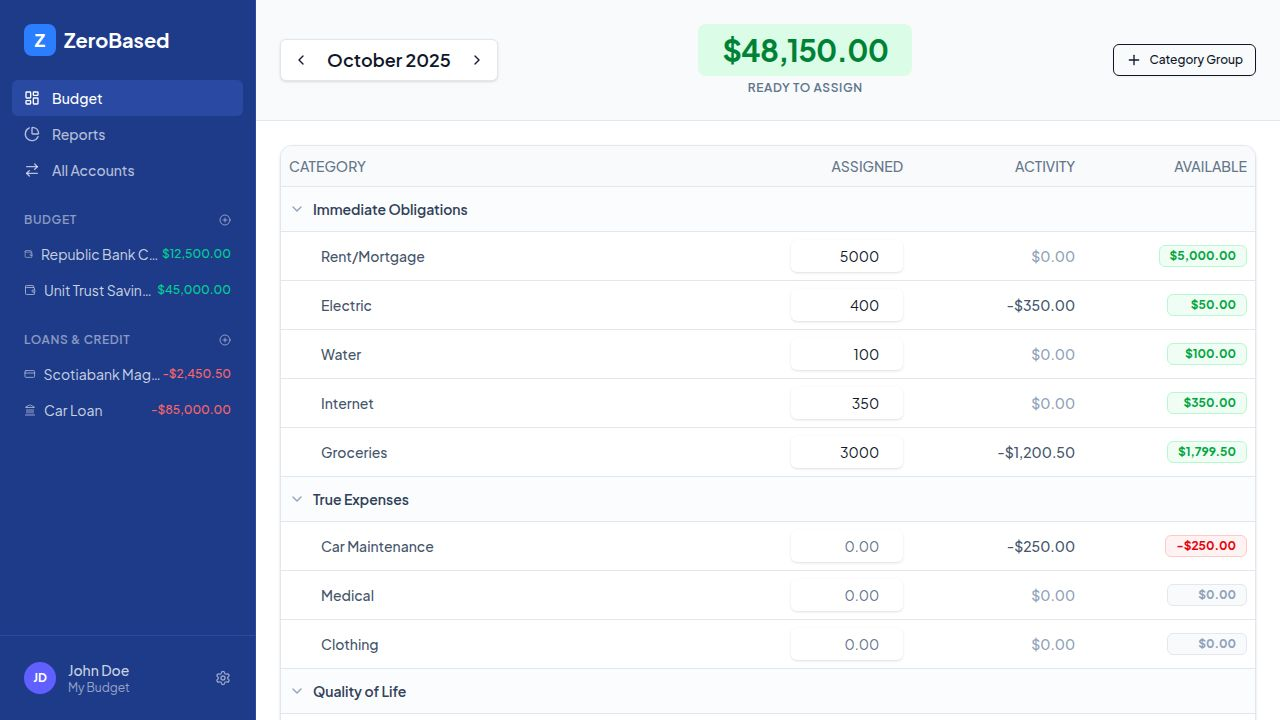
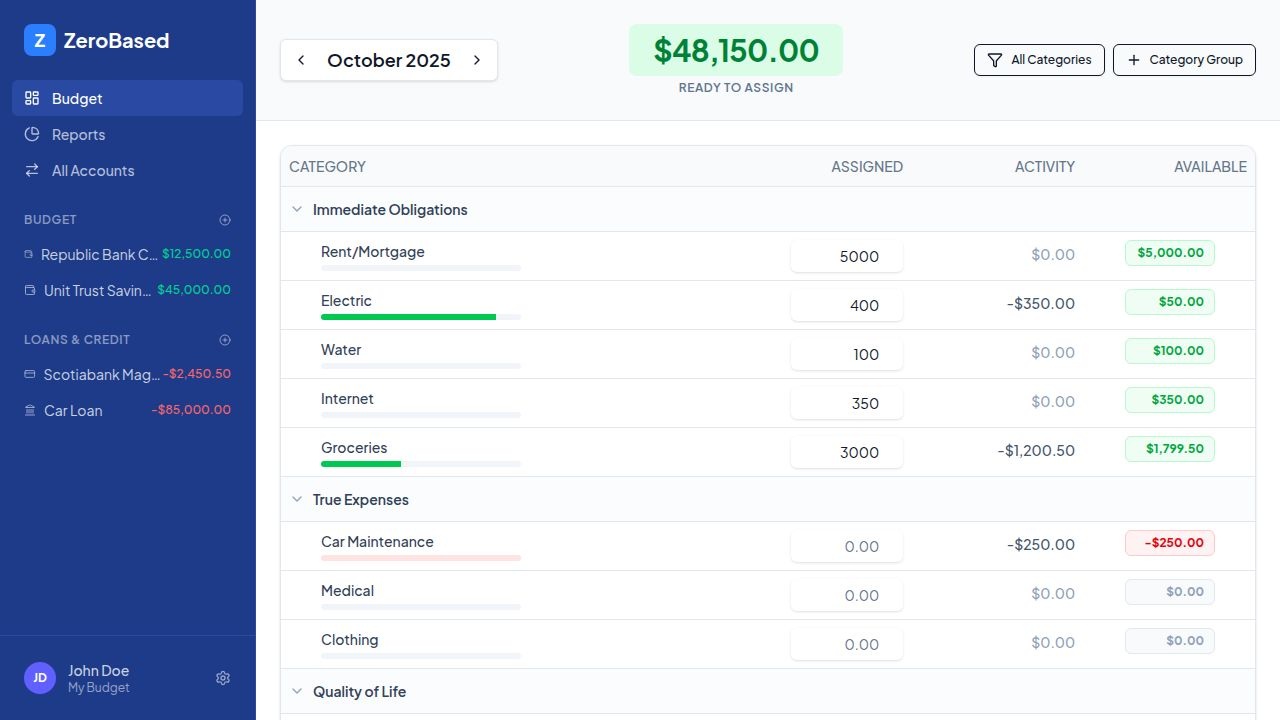
Enhance budget page with money movement and category filtering
Implement a "Move Money" feature between budget categories, add progress bars for category funding status, and introduce quick filters for underfunded or available money categories. Also, refactor the assigned column to be directly editable and add a new dialog component for moving funds.

Replit-Commit-Author: Agent
Replit-Commit-Session-Id: 1f949a20-8e29-411b-a0cd-3bf4b8567561
Replit-Commit-Checkpoint-Type: full_checkpoint
Replit-Commit-Event-Id: 545dd48b-6a4e-4d24-8c36-1e823d14fb17
Replit-Commit-Screenshot-Url: https://storage.googleapis.com/screenshot-production-us-central1/90777116-9e8f-4635-9102-98ab4e379587/1f949a20-8e29-411b-a0cd-3bf4b8567561/dnAzrf0
Replit-Helium-Checkpoint-Created: true

diff --git a/client/src/pages/Budget.tsx b/client/src/pages/Budget.tsx
@@ -7,7 +7,8 @@ import {
   Plus, 
   Search,
   Filter,
-  MoreHorizontal
+  MoreHorizontal,
+  ArrowRightLeft
 } from 'lucide-react';
 import { Button } from '@/components/ui/button';
 import { Input } from '@/components/ui/input';
@@ -21,6 +22,21 @@ import {
   TableRow,
 } from "@/components/ui/table";
 import { Badge } from "@/components/ui/badge";
+import { Progress } from "@/components/ui/progress";
+import {
+  Popover,
+  PopoverContent,
+  PopoverTrigger,
+} from "@/components/ui/popover";
+import { MoveMoneyDialog } from '@/components/modals/MoveMoneyDialog';
+import {
+  DropdownMenu,
+  DropdownMenuContent,
+  DropdownMenuItem,
+  DropdownMenuLabel,
+  DropdownMenuSeparator,
+  DropdownMenuTrigger,
+} from "@/components/ui/dropdown-menu";
 
 export default function BudgetPage() {
   const { 
@@ -38,6 +54,8 @@ export default function BudgetPage() {
   const [expandedGroups, setExpandedGroups] = useState<Record<string, boolean>>(
     categoryGroups.reduce((acc, g) => ({ ...acc, [g.id]: true }), {})
   );
+
+  const [filter, setFilter] = useState<'all' | 'underfunded' | 'overfunded' | 'available'>('all');
 
   const toggleGroup = (groupId: string) => {
     setExpandedGroups(prev => ({ ...prev, [groupId]: !prev[groupId] }));
@@ -57,6 +75,15 @@ export default function BudgetPage() {
 
   const formatCurrency = (amount: number) => {
     return new Intl.NumberFormat('en-TT', { style: 'currency', currency: 'TTD' }).format(amount);
+  };
+
+  const getFilterLabel = (f: string) => {
+    switch(f) {
+      case 'underfunded': return 'Underfunded';
+      case 'overfunded': return 'Overfunded';
+      case 'available': return 'Money Available';
+      default: return 'All Categories';
+    }
   };
 
   return (
@@ -88,6 +115,20 @@ export default function BudgetPage() {
         </div>
 
         <div className="flex items-center gap-2">
+           <DropdownMenu>
+            <DropdownMenuTrigger asChild>
+              <Button variant="outline" size="sm" className="gap-2">
+                <Filter className="w-4 h-4" /> {getFilterLabel(filter)}
+              </Button>
+            </DropdownMenuTrigger>
+            <DropdownMenuContent align="end">
+              <DropdownMenuLabel>Filter Views</DropdownMenuLabel>
+              <DropdownMenuSeparator />
+              <DropdownMenuItem onClick={() => setFilter('all')}>All Categories</DropdownMenuItem>
+              <DropdownMenuItem onClick={() => setFilter('underfunded')}>Underfunded (Negative)</DropdownMenuItem>
+              <DropdownMenuItem onClick={() => setFilter('available')}>Money Available</DropdownMenuItem>
+            </DropdownMenuContent>
+          </DropdownMenu>
           <Button variant="outline" size="sm" className="gap-2">
             <Plus className="w-4 h-4" /> Category Group
           </Button>
@@ -108,7 +149,18 @@ export default function BudgetPage() {
             </TableHeader>
             <TableBody>
               {categoryGroups.map(group => {
-                const groupCategories = categories.filter(c => c.groupId === group.id);
+                const groupCategories = categories.filter(c => {
+                  if (c.groupId !== group.id) return false;
+                  const available = getCategoryAvailable(currentMonth, c.id);
+                  
+                  if (filter === 'underfunded') return available < 0;
+                  if (filter === 'available') return available > 0;
+                  return true;
+                });
+
+                // If filtering hides all categories in a group, hide the group header too
+                if (groupCategories.length === 0) return null;
+
                 const isExpanded = expandedGroups[group.id];
 
                 return (
@@ -133,18 +185,42 @@ export default function BudgetPage() {
                       const activity = getCategoryActivity(currentMonth, category.id);
                       const available = getCategoryAvailable(currentMonth, category.id);
 
+                      // Calculate progress (clamped 0-100) for visualization
+                      // If assigned is 0, avoid division by zero
+                      // Logic: If available is positive, bar is green. If negative, red.
+                      // Percentage of "Spent" vs "Assigned"
+                      
+                      let progressValue = 0;
+                      if (assigned > 0) {
+                         progressValue = Math.min(100, (Math.abs(activity) / assigned) * 100);
+                      }
+
                       return (
                         <TableRow key={category.id} className="group">
-                          <TableCell className="py-2 pl-10 font-medium text-slate-600">
-                            {category.name}
+                          <TableCell className="py-2 pl-10">
+                            <div className="flex flex-col gap-1">
+                              <span className="font-medium text-slate-700">{category.name}</span>
+                              <div className="w-full max-w-[200px]">
+                                <Progress 
+                                  value={progressValue} 
+                                  className={cn(
+                                    "h-1.5", 
+                                    available < 0 ? "[&>div]:bg-red-500 bg-red-100" : 
+                                    progressValue >= 100 ? "[&>div]:bg-yellow-500 bg-slate-100" :
+                                    "[&>div]:bg-green-500 bg-slate-100"
+                                  )} 
+                                />
+                              </div>
+                            </div>
                           </TableCell>
-                          <TableCell className="text-right p-2">
-                            <div className="relative flex items-center justify-end">
+                          <TableCell className="text-right p-2 align-top">
+                            <div className="relative flex items-center justify-end group/input">
                               <Input 
                                 type="number"
                                 className="w-28 text-right h-8 pr-2 border-transparent bg-transparent hover:bg-slate-50 focus:bg-white focus:border-blue-500 focus:ring-1 transition-all"
                                 value={assigned === 0 ? '' : assigned}
                                 placeholder="0.00"
+                                onClick={(e) => (e.target as HTMLInputElement).select()}
                                 onChange={(e) => {
                                   const val = parseFloat(e.target.value) || 0;
                                   setCategoryAssignment(currentMonth, category.id, val);
@@ -152,7 +228,7 @@ export default function BudgetPage() {
                               />
                             </div>
                           </TableCell>
-                          <TableCell className="text-right">
+                          <TableCell className="text-right align-top pt-3">
                             <span className={cn(
                               "text-sm font-medium",
                               activity < 0 ? "text-slate-600" : "text-slate-400"
@@ -160,15 +236,25 @@ export default function BudgetPage() {
                               {formatCurrency(activity)}
                             </span>
                           </TableCell>
-                          <TableCell className="text-right">
-                            <Badge variant="outline" className={cn(
-                              "font-bold min-w-[80px] justify-end",
-                              available < 0 ? "bg-red-50 text-red-600 border-red-200" : 
-                              available > 0 ? "bg-green-50 text-green-600 border-green-200" : 
-                              "bg-slate-50 text-slate-400 border-slate-200"
-                            )}>
-                              {formatCurrency(available)}
-                            </Badge>
+                          <TableCell className="text-right align-top pt-2">
+                             <div className="flex items-center justify-end gap-2">
+                                <Badge variant="outline" className={cn(
+                                  "font-bold min-w-[90px] justify-end py-1",
+                                  available < 0 ? "bg-red-50 text-red-600 border-red-200" : 
+                                  available > 0 ? "bg-green-50 text-green-600 border-green-200" : 
+                                  "bg-slate-50 text-slate-400 border-slate-200"
+                                )}>
+                                  {formatCurrency(available)}
+                                </Badge>
+                                <MoveMoneyDialog 
+                                  sourceCategoryId={category.id} 
+                                  trigger={
+                                    <Button variant="ghost" size="icon" className="h-6 w-6 opacity-0 group-hover:opacity-100 transition-opacity text-slate-400 hover:text-blue-600">
+                                      <ArrowRightLeft className="w-3 h-3" />
+                                    </Button>
+                                  }
+                                />
+                             </div>
                           </TableCell>
                         </TableRow>
                       );

diff --git a/client/src/components/modals/MoveMoneyDialog.tsx b/client/src/components/modals/MoveMoneyDialog.tsx
@@ -1,0 +1,108 @@
+import { useState } from 'react';
+import { useStore } from '@/lib/store';
+import { 
+  Dialog, 
+  DialogContent, 
+  DialogHeader, 
+  DialogTitle, 
+  DialogTrigger,
+  DialogFooter,
+  DialogDescription
+} from "@/components/ui/dialog";
+import { Button } from '@/components/ui/button';
+import { Input } from '@/components/ui/input';
+import { Label } from '@/components/ui/label';
+import { Select, SelectContent, SelectItem, SelectTrigger, SelectValue } from '@/components/ui/select';
+import { ArrowRightLeft } from 'lucide-react';
+
+interface MoveMoneyDialogProps {
+  sourceCategoryId: string;
+  trigger?: React.ReactNode;
+  open?: boolean;
+  onOpenChange?: (open: boolean) => void;
+}
+
+export function MoveMoneyDialog({ sourceCategoryId, trigger, open: controlledOpen, onOpenChange }: MoveMoneyDialogProps) {
+  const [internalOpen, setInternalOpen] = useState(false);
+  const isControlled = controlledOpen !== undefined;
+  const open = isControlled ? controlledOpen : internalOpen;
+  const setOpen = isControlled ? onOpenChange! : setInternalOpen;
+
+  const { categories, moveMoney, currentMonth, getCategoryAvailable } = useStore();
+  const sourceCategory = categories.find(c => c.id === sourceCategoryId);
+  const availableAmount = getCategoryAvailable(currentMonth, sourceCategoryId);
+
+  const [amount, setAmount] = useState('');
+  const [targetCategoryId, setTargetCategoryId] = useState('');
+
+  const handleSubmit = (e: React.FormEvent) => {
+    e.preventDefault();
+    if (!targetCategoryId || !amount) return;
+
+    moveMoney(sourceCategoryId, targetCategoryId, parseFloat(amount), currentMonth);
+    setOpen(false);
+    setAmount('');
+    setTargetCategoryId('');
+  };
+
+  if (!sourceCategory) return null;
+
+  return (
+    <Dialog open={open} onOpenChange={setOpen}>
+      <DialogTrigger asChild>
+        {trigger || (
+          <Button variant="ghost" size="icon" className="h-6 w-6">
+            <ArrowRightLeft className="w-3 h-3" />
+          </Button>
+        )}
+      </DialogTrigger>
+      <DialogContent className="sm:max-w-[425px]">
+        <DialogHeader>
+          <DialogTitle>Move Money</DialogTitle>
+          <DialogDescription>
+            Move funds from <strong>{sourceCategory.name}</strong> to another category.
+          </DialogDescription>
+        </DialogHeader>
+        <form onSubmit={handleSubmit} className="grid gap-4 py-4">
+          <div className="grid grid-cols-4 items-center gap-4">
+            <Label htmlFor="amount" className="text-right">
+              Amount
+            </Label>
+            <div className="col-span-3">
+              <Input
+                id="amount"
+                type="number"
+                step="0.01"
+                max={availableAmount}
+                value={amount}
+                onChange={(e) => setAmount(e.target.value)}
+                placeholder={`Max: ${availableAmount.toFixed(2)}`}
+                required
+              />
+            </div>
+          </div>
+          <div className="grid grid-cols-4 items-center gap-4">
+            <Label htmlFor="to" className="text-right">
+              To
+            </Label>
+            <Select value={targetCategoryId} onValueChange={setTargetCategoryId} required>
+              <SelectTrigger className="col-span-3">
+                <SelectValue placeholder="Select category" />
+              </SelectTrigger>
+              <SelectContent>
+                {categories
+                  .filter(c => c.id !== sourceCategoryId)
+                  .map(c => (
+                    <SelectItem key={c.id} value={c.id}>{c.name}</SelectItem>
+                  ))}
+              </SelectContent>
+            </Select>
+          </div>
+          <DialogFooter>
+            <Button type="submit">Move Funds</Button>
+          </DialogFooter>
+        </form>
+      </DialogContent>
+    </Dialog>
+  );
+}

diff --git a/client/src/lib/store.ts b/client/src/lib/store.ts
@@ -53,6 +53,7 @@ interface AppState {
   addAccount: (account: Omit<Account, 'id'>) => void;
   addTransaction: (transaction: Omit<Transaction, 'id'>) => void;
   setCategoryAssignment: (month: string, categoryId: string, amount: number) => void;
+  moveMoney: (fromCategoryId: string, toCategoryId: string, amount: number, month: string) => void;
   
   // Getters (computed)
   getAccountBalance: (accountId: string) => number;
@@ -146,6 +147,23 @@ export const useStore = create<AppState>()(
           }
         }
       })),
+
+      moveMoney: (fromCategoryId, toCategoryId, amount, month) => set((state) => {
+        const currentAssignments = state.monthlyAssignments[month] || {};
+        const fromAmount = currentAssignments[fromCategoryId] || 0;
+        const toAmount = currentAssignments[toCategoryId] || 0;
+
+        return {
+          monthlyAssignments: {
+            ...state.monthlyAssignments,
+            [month]: {
+              ...currentAssignments,
+              [fromCategoryId]: fromAmount - amount,
+              [toCategoryId]: toAmount + amount
+            }
+          }
+        };
+      }),
 
       getAccountBalance: (accountId) => {
         const state = get();
